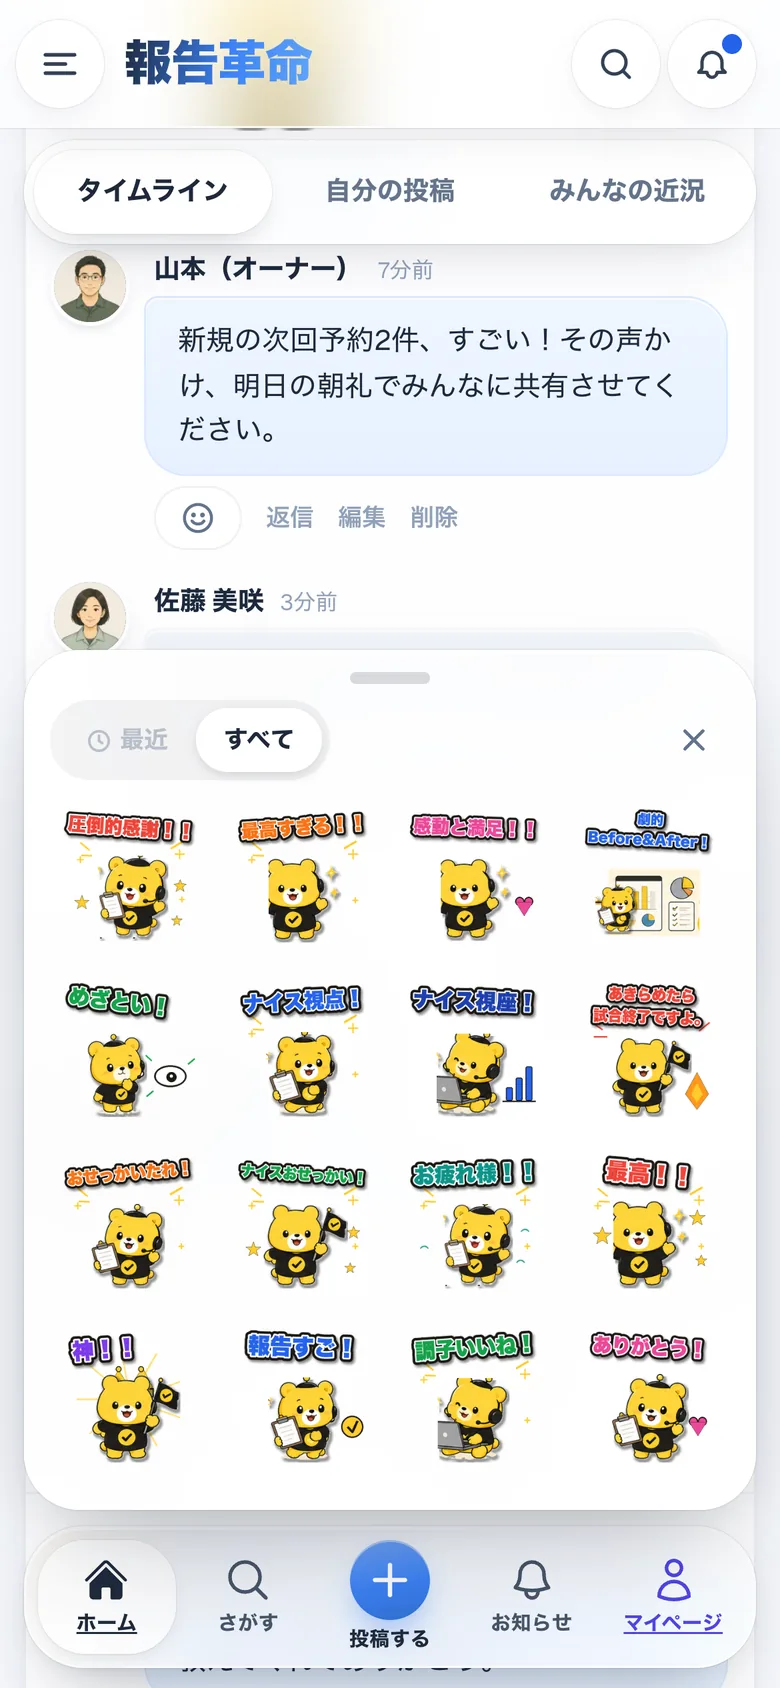
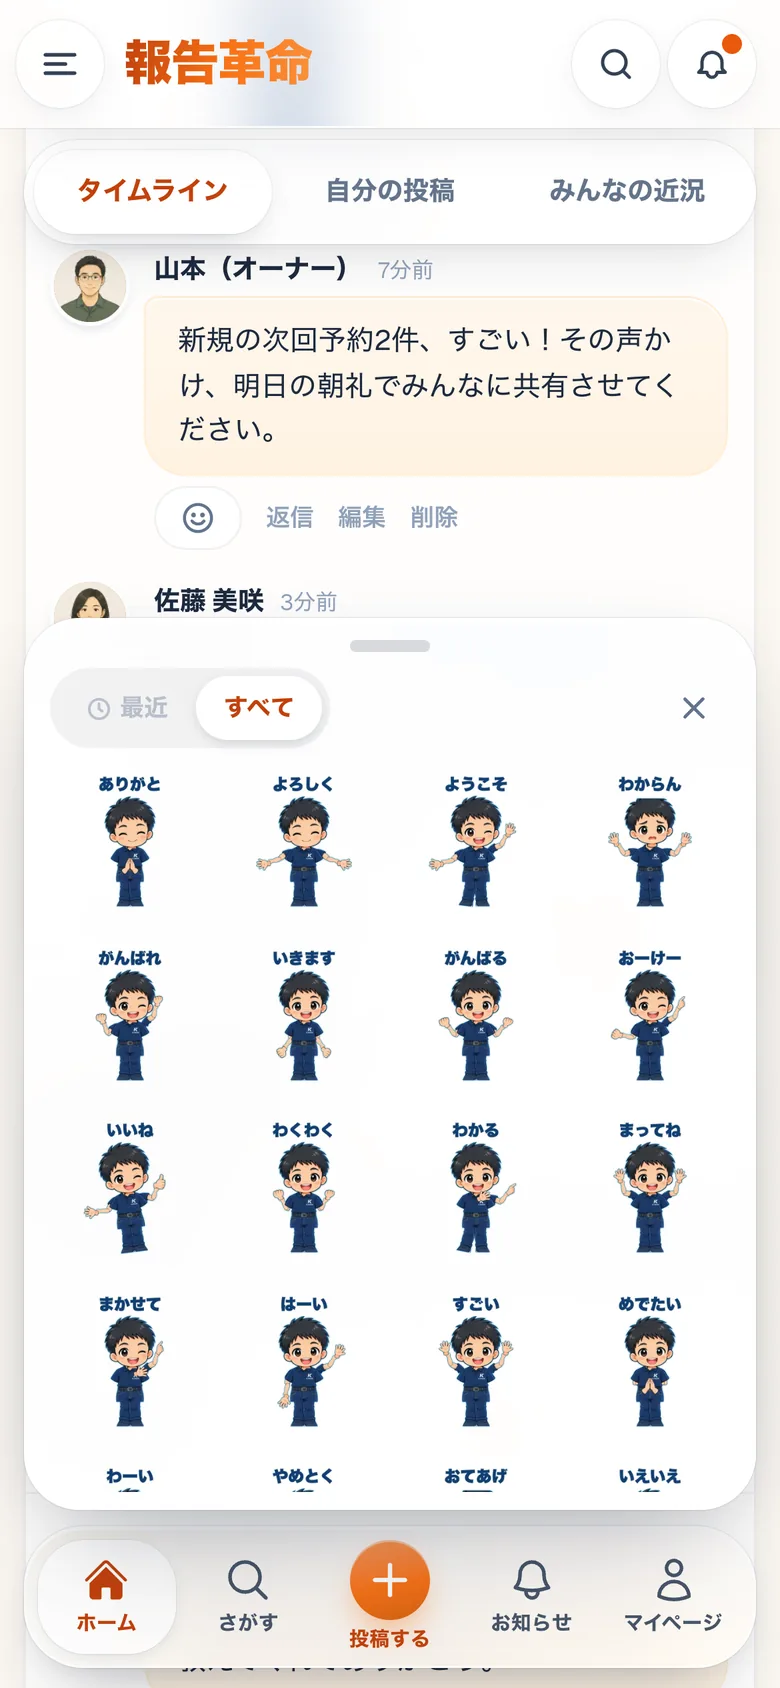
アプリ画面をオレンジのテーマに、スタンプをカノエくんに差し替え
LPのオレンジに合わせ、アプリ画面の写真を報告革命のオレンジのテーマ（mild）で撮り直す。
スタンプはカノエアカウントに登録済みの「AIカノエくん」に差し替え、ヒーローは動くスタンプ
（動きを減らす設定では静止版）にする。OG画像も作り直す。

diff --git a/index.html b/index.html
@@ -206,14 +206,17 @@
                 />
               </div>
             </figure>
-            <img
-              class="hero-stamp"
-              src="./assets/stamp-saikou.webp"
-              alt=""
-              width="240"
-              height="240"
-              aria-hidden="true"
-            />
+            <picture>
+              <source srcset="./assets/stamp-kanoe-sugoi-still.webp" media="(prefers-reduced-motion: reduce)" />
+              <img
+                class="hero-stamp"
+                src="./assets/stamp-kanoe-sugoi.webp"
+                alt=""
+                width="352"
+                height="352"
+                aria-hidden="true"
+              />
+            </picture>
           </div>
         </div>
       </section>
@@ -402,7 +405,7 @@
                 忙しいときは、スタンプをタップするだけ。報告に反応が返ってくるから、スタッフは「ちゃんと見てもらえている」と感じ、次も報告したくなります。報告が増えるほど、現場はもっと見えるようになります。
               </p>
               <ul class="check-list">
-                <li>現場向けのオリジナルスタンプ</li>
+                <li>自社キャラクターのスタンプも登録できる</li>
                 <li>コメント・返信で、そのまま会話</li>
                 <li>感謝を伝えるサンクスカード</li>
               </ul>

diff --git a/design-qa.md b/design-qa.md
@@ -109,3 +109,16 @@
 - スマホ固定のLINEボタンは、ヒーローのボタンと最終CTAが見えている間は隠れる。業種タブはクリック・矢印キーで切り替わる。
 - `prefers-reduced-motion` ではヒーローの登場とスクロール表示の動きを止める。
 - 日本語の折り返し：見出しは `text-wrap: balance`（Chromeは `word-break: auto-phrase` も）、Safariでも崩れやすい箇所は文節単位の `.nw` と改行で調整。
+
+## アプリ画面をオレンジのテーマに、スタンプをカノエくんに（2026年10月31日・日本時間）
+
+LPのオレンジ（`#f15a19`）に合わせ、アプリ画面の写真をすべて報告革命のオレンジのテーマ（`mild`。カノエアカウントと同じ）で撮り直した。ロゴ・ボタン・タブ・ランキングがオレンジになる。
+
+| 項目 | 内容 |
+| --- | --- |
+| 撮り直した画像 | `assets/screens/*.webp`（6枚）、`assets/cases/*.webp`（6枚。寸法は前回と同じ）、`assets/og-image.png` |
+| スタンプ | 「ほこくま」から、カノエアカウントに登録済みの「AIカノエくん」24種に差し替え（元データは512×512・36フレームの動くWebP） |
+| ヒーローのスタンプ | `assets/stamp-kanoe-sugoi.webp`（「すごい」、352px・18フレームの動くWebP、約190KB）。`prefers-reduced-motion` では静止版 `assets/stamp-kanoe-sugoi-still.webp` を出す |
+| 文言 | できること03の箇条書きを「自社キャラクターのスタンプも登録できる」に変更 |
+
+検証：`node --test tests/*.test.cjs` 9件成功（`srcset` の参照先も存在確認に追加）。320 / 390 / 768 / 1280px で横はみ出し・画像欠落・コンソールエラーなし。動きを減らす設定では静止版のスタンプが読み込まれることを確認。
